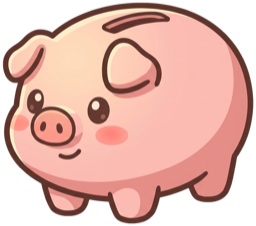
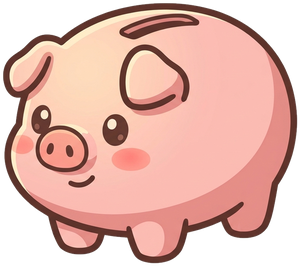
Hero break: use the game's staged damage art
The site was fading one crack doodle over a pristine body. The game
doesn't do that — damage is drawn into the body sprite and swapped
wholesale as HP drops (PiggyType.damageSprite / MenuPiggy), so cracks
spread and the piggy visibly comes apart. Exported all five classic
frames at one scale so they register, and stepped through them across
four hits.

The break now throws shards too, ported from SmashBurst: the spark
flash, ten chips fanned upward on the same angle/distance maths, and
the 0.4-scale fade the piggy leaves on. Hammer geometry is now the
game's as well — grip pivot at (0.82, 0.84), rest +50, windup +74,
strike +10 — instead of angles guessed to look about right.

diff --git a/style.css b/style.css
@@ -289,3 +289,158 @@ header .brand img { width: 34px !important; height: 34px !important; flex: 0 0 a
 .numbers li:nth-child(odd)  { transform: rotate(-1.5deg); }
 .numbers li:nth-child(even) { transform: rotate(1.5deg); }
 .numbers b { font-size: 21px; font-weight: 700; color: var(--berry); margin-right: 5px; }
+
+/* ---- hero smash animation v5: the game's actual break ----------------------
+   Ported from Views/MenuPiggy.swift. Two things the earlier versions got
+   wrong. First, damage is drawn INTO the body art — the game swaps the whole
+   sprite as HP drops (PiggyType.damageSprite), so the cracks spread and the
+   piggy comes apart, rather than one doodle fading in on a pristine body.
+   Second, it breaks into shards (SmashBurst), not thin air.
+   Hammer geometry is the game's: pivot on the grip at (0.82, 0.84), resting
+   at +50 degrees, winding back to +74, landing at +10. Nudge those three and
+   nothing else if the contact point ever needs moving.                      */
+
+.smash {
+  --h: 132px;                        /* piggy height; everything derives from it */
+  position: relative;
+  width: calc(var(--h) * 2.3); height: calc(var(--h) * 1.6);
+}
+
+/* ---- body: five stacked frames, one visible at a time ---- */
+.smash .pig {
+  position: absolute; left: calc(50% - var(--h) * 0.20); bottom: 0;
+  width: calc(var(--h) * 1.128); height: var(--h);
+  transform-origin: bottom center; translate: -50% 0;
+  animation: hs5-pig 6s linear infinite;
+}
+.smash .body {
+  position: absolute; inset: 0; width: 100%; height: 100%;
+  object-fit: contain; margin: 0; opacity: 0;
+  animation: 6s steps(1, end) infinite;
+}
+.smash .s0 { animation-name: hs5-s0; }
+.smash .s1 { animation-name: hs5-s1; }
+.smash .s2 { animation-name: hs5-s2; }
+.smash .s3 { animation-name: hs5-s3; }
+.smash .s4 { animation-name: hs5-s4; }
+
+@keyframes hs5-s0 { 0%,9.1%{opacity:1} 9.2%,79.9%{opacity:0} 80%,100%{opacity:1} }
+@keyframes hs5-s1 { 0%,9.1%{opacity:0} 9.2%,21.6%{opacity:1} 21.7%,100%{opacity:0} }
+@keyframes hs5-s2 { 0%,21.6%{opacity:0} 21.7%,34.1%{opacity:1} 34.2%,100%{opacity:0} }
+@keyframes hs5-s3 { 0%,34.1%{opacity:0} 34.2%,46.6%{opacity:1} 46.7%,100%{opacity:0} }
+@keyframes hs5-s4 { 0%,46.6%{opacity:0} 46.7%,48.4%{opacity:1} 48.5%,100%{opacity:0} }
+
+/* Squash on the wind-up, harder squash on impact, overshoot, settle — then
+   scale away to 0.4 and fade, which is the game's break transition. */
+@keyframes hs5-pig {
+  0%,3.3%   { transform: scale(1,1) rotate(0deg);          opacity: 1 }
+  8%        { transform: scale(1.10,0.92) rotate(2.5deg);  opacity: 1 }
+  9.2%      { transform: scale(1.14,0.86) rotate(0deg);    opacity: 1 }
+  12%       { transform: scale(0.97,1.04) rotate(0deg) }
+  15.8%     { transform: scale(1,1) rotate(0deg) }
+  20.5%     { transform: scale(1.10,0.92) rotate(2.5deg) }
+  21.7%     { transform: scale(1.14,0.86) rotate(0deg) }
+  24.5%     { transform: scale(0.97,1.04) rotate(0deg) }
+  28.3%     { transform: scale(1,1) rotate(0deg) }
+  33%       { transform: scale(1.10,0.92) rotate(2.5deg) }
+  34.2%     { transform: scale(1.14,0.86) rotate(0deg) }
+  37%       { transform: scale(0.97,1.04) rotate(0deg) }
+  40.8%     { transform: scale(1,1) rotate(0deg) }
+  45.5%     { transform: scale(1.10,0.92) rotate(2.5deg) }
+  46.7%     { transform: scale(1.16,0.84) rotate(0deg);    opacity: 1 }
+  48.5%     { transform: scale(1.16,0.84) rotate(0deg);    opacity: 1 }
+  50.8%     { transform: scale(0.4,0.4) rotate(0deg);      opacity: 0 }
+  80%       { transform: scale(0.4,0.4) rotate(0deg);      opacity: 0 }
+  87%,100%  { transform: scale(1,1) rotate(0deg);          opacity: 1 }
+}
+
+/* ---- hammer: rest 50deg, wind back to 74, snap down to 10 ---- */
+.smash .hammer {
+  position: absolute; left: calc(50% + var(--h) * 0.46); bottom: calc(var(--h) * 0.14);
+  width: calc(var(--h) * 0.883); height: auto; margin: 0;
+  translate: -50% 0;
+  transform-origin: 82% 84%; transform: rotate(50deg);
+  z-index: 3;
+  animation: hs5-hammer 6s infinite;
+}
+@keyframes hs5-hammer {
+  0%,3.3%   { transform: rotate(50deg); animation-timing-function: linear }
+  8%        { transform: rotate(74deg); animation-timing-function: ease-in }
+  9.2%      { transform: rotate(10deg); animation-timing-function: ease-out }
+  15.8%     { transform: rotate(50deg); animation-timing-function: linear }
+  20.5%     { transform: rotate(74deg); animation-timing-function: ease-in }
+  21.7%     { transform: rotate(10deg); animation-timing-function: ease-out }
+  28.3%     { transform: rotate(50deg); animation-timing-function: linear }
+  33%       { transform: rotate(74deg); animation-timing-function: ease-in }
+  34.2%     { transform: rotate(10deg); animation-timing-function: ease-out }
+  40.8%     { transform: rotate(50deg); animation-timing-function: linear }
+  45.5%     { transform: rotate(74deg); animation-timing-function: ease-in }
+  46.7%     { transform: rotate(10deg); animation-timing-function: ease-out }
+  53.3%,100%{ transform: rotate(50deg) }
+}
+
+/* ---- the break: a flash and ten chips of whatever it was made of ---- */
+.smash .burst {
+  position: absolute; left: calc(50% - var(--h) * 0.20); bottom: calc(var(--h) * 0.38);
+  width: 0; height: 0; z-index: 2;
+}
+.smash .spark {
+  position: absolute; left: -65px; top: -65px; width: 130px; height: 130px;
+  margin: 0; opacity: 0; animation: hs5-spark 6s ease-out infinite;
+}
+@keyframes hs5-spark {
+  0%,48.4%   { opacity: 0;   transform: scale(0.34) }
+  48.5%      { opacity: .95; transform: scale(0.34) }
+  57.2%,100% { opacity: 0;   transform: scale(1) }
+}
+.smash .burst i {
+  position: absolute; opacity: 0; border: 2px solid var(--ink);
+  animation: hs5-shard 6s ease-out infinite;
+}
+.smash .chip {
+  width: var(--s); height: calc(var(--s) * 0.8);
+  margin: calc(var(--s) * -0.4) 0 0 calc(var(--s) * -0.5);
+  background: var(--blush); border-radius: 3px;
+}
+.smash .cap {
+  width: calc(var(--s) * 1.1); height: calc(var(--s) * 0.65);
+  margin: calc(var(--s) * -0.325) 0 0 calc(var(--s) * -0.55);
+  background: var(--paper); border-radius: 999px;
+}
+@keyframes hs5-shard {
+  0%,48.4%   { opacity: 0; transform: translate(0,0) rotate(0deg) scale(1) }
+  48.5%      { opacity: 1; transform: translate(0,0) rotate(0deg) scale(1) }
+  57.2%,100% { opacity: 0; transform: translate(var(--dx), var(--dy)) rotate(var(--r)) scale(0.65) }
+}
+
+/* ---- coins, thrown on the break and left on the table ---- */
+.smash .coins {
+  position: absolute; left: calc(50% - var(--h) * 0.20); bottom: calc(var(--h) * 0.24);
+  width: 0; height: 0; z-index: 4;
+}
+.smash .coin {
+  position: absolute; left: -18px; top: -18px; width: 36px; height: 36px;
+  margin: 0; opacity: 0; animation: hs5-coin 6s ease-out infinite;
+}
+@keyframes hs5-coin {
+  0%,47%   { opacity: 0; transform: translate(0,0) scale(0.4) }
+  50%      { opacity: 1; transform: translate(calc(var(--dx) * 0.6), -34px) scale(1) }
+  57%      { opacity: 1; transform: translate(var(--dx), -46px) scale(1) }
+  68%      { opacity: 1; transform: translate(var(--dx), 6px) scale(1) }
+  74%      { opacity: 1; transform: translate(var(--dx), 6px) scale(1) }
+  79%,100% { opacity: 0; transform: translate(var(--dx), 6px) scale(0.8) }
+}
+
+.hero-art { min-height: calc(132px * 1.6); }
+@media (max-width: 520px) { .smash { --h: 104px; } .hero-art { min-height: 168px; } }
+
+/* Frozen, it should still read as "hammer, cracked piggy, coins". */
+@media (prefers-reduced-motion: reduce) {
+  .smash .pig, .smash .body, .smash .hammer, .smash .coin,
+  .smash .spark, .smash .burst i { animation: none !important; }
+  .smash .pig { transform: scale(1,1) }
+  .smash .s2 { opacity: 1 }
+  .smash .hammer { transform: rotate(28deg) }
+  .smash .spark { opacity: 0 }
+  .smash .coin { opacity: 1; transform: translate(var(--dx), 6px) }
+}

diff --git a/index.html b/index.html
@@ -22,7 +22,7 @@
 <meta name="twitter:title" content="Get Paid! Piggy Smash">
 <meta name="twitter:description" content="Smash piggy banks, grab the coins, and pay your bills before the Collector shows up.">
 <meta name="twitter:image" content="https://piggiesmash.com/assets/og.png">
-<link rel="stylesheet" href="style.css?v=5">
+<link rel="stylesheet" href="style.css?v=6">
 </head>
 <body>
 <header>
@@ -41,13 +41,34 @@
     <p class="tagline">smash piggies &middot; pay bills &middot; get debt free</p>
     <p class="sub">You are broke and rent is due. Good thing your piggy banks are full. Grab a hammer, smash them open, and scoop up the coins before the Collector takes a cut.</p>
     <div class="hero-art">
+      <!-- Four hits, four staged bodies, then shards — the same break the game
+           runs (Views/MenuPiggy.swift). Damage is drawn into the body art, so
+           each hit swaps the whole sprite rather than fading a crack on top. -->
       <div class="smash">
-        <img class="piggy" src="assets/piggy.png" alt="A pink piggy bank">
-        <img class="crack" src="assets/crack.png" alt="">
+        <div class="pig">
+          <img class="body s0" src="assets/piggy.png" alt="A pink piggy bank">
+          <img class="body s1" src="assets/piggy-dmg80.png" alt="">
+          <img class="body s2" src="assets/piggy-dmg60.png" alt="">
+          <img class="body s3" src="assets/piggy-dmg40.png" alt="">
+          <img class="body s4" src="assets/piggy-dmg20.png" alt="">
+        </div>
+        <span class="burst">
+          <img class="spark" src="assets/spark.png" alt="">
+          <i class="chip" style="--dx:42px;--dy:-14px;--r:-150deg;--s:15px"></i>
+          <i class="cap"  style="--dx:51px;--dy:-34px;--r:-79deg;--s:10px"></i>
+          <i class="chip" style="--dx:50px;--dy:-60px;--r:-8deg;--s:10px"></i>
+          <i class="cap"  style="--dx:23px;--dy:-52px;--r:63deg;--s:15px"></i>
+          <i class="chip" style="--dx:10px;--dy:-73px;--r:134deg;--s:10px"></i>
+          <i class="cap"  style="--dx:-7px;--dy:-52px;--r:-95deg;--s:10px"></i>
+          <i class="chip" style="--dx:-28px;--dy:-64px;--r:-24deg;--s:15px"></i>
+          <i class="cap"  style="--dx:-31px;--dy:-38px;--r:47deg;--s:10px"></i>
+          <i class="chip" style="--dx:-55px;--dy:-37px;--r:118deg;--s:10px"></i>
+          <i class="cap"  style="--dx:-43px;--dy:-14px;--r:-111deg;--s:15px"></i>
+        </span>
         <span class="coins">
-          <img class="coin" src="assets/coin.png" alt="" style="--dx:-24px">
-          <img class="coin" src="assets/coin.png" alt="" style="--dx:4px">
-          <img class="coin" src="assets/coin.png" alt="" style="--dx:26px">
+          <img class="coin" src="assets/coin.png" alt="" style="--dx:-44px">
+          <img class="coin" src="assets/coin.png" alt="" style="--dx:0px">
+          <img class="coin" src="assets/coin.png" alt="" style="--dx:46px">
         </span>
         <img class="hammer" src="assets/hammer.png" alt="A wooden hammer">
       </div>

diff --git a/privacy.html b/privacy.html
@@ -19,7 +19,7 @@
 <meta property="og:image:height" content="630">
 <meta name="twitter:card" content="summary_large_image">
 <meta name="twitter:image" content="https://piggiesmash.com/assets/og.png">
-<link rel="stylesheet" href="style.css?v=5">
+<link rel="stylesheet" href="style.css?v=6">
 </head>
 <body>
 <header>

diff --git a/support.html b/support.html
@@ -19,7 +19,7 @@
 <meta property="og:image:height" content="630">
 <meta name="twitter:card" content="summary_large_image">
 <meta name="twitter:image" content="https://piggiesmash.com/assets/og.png">
-<link rel="stylesheet" href="style.css?v=5">
+<link rel="stylesheet" href="style.css?v=6">
 </head>
 <body>
 <header>
